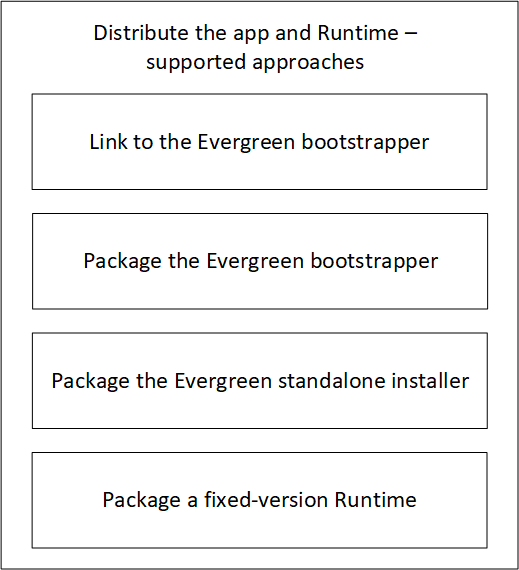
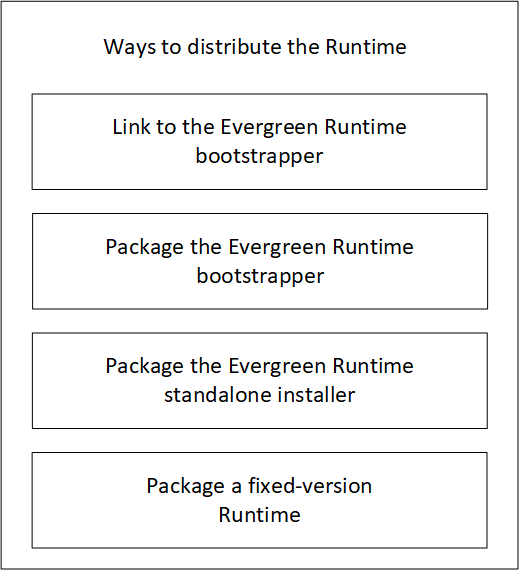
AddHostObject color

diff --git a/microsoft-edge/webview2/index.md b/microsoft-edge/webview2/index.md
@@ -105,7 +105,7 @@ The WebView2 control, WebView2 SDK, and WebView2 Runtime have the following role
 <!-- ------------------------------ -->
 #### Relationship between the WebView2 control, SDK, and Runtime
 
-![Diagram: Relationship between the WebView2 control, SDK, and Runtime](./index-images/wv2-control-sdk-runtime.png)
+![Diagram: Relationship between the WebView2 control, SDK, and Runtime](./index-images/control-sdk-runtime.png)
 
 Control:
 *  WebView2 control - in the app layout; hosts the Runtime.
@@ -162,7 +162,7 @@ The SDK includes the JavaScript API?  The JavaScript API is the [WebView2Script 
 * Native-side code calls platform APIs and WebView2 APIs
 * Web-side JavaScript code calls WebView2Script APIs & exposed native-side APIs
 
-![Design architecture of a WebView2 app](./index-images/wv2-app-design.png)
+![Design architecture of a WebView2 app](./index-images/app-design.png)
 
 
 <!-- ====================================================================== -->
@@ -233,9 +233,9 @@ There are several ways to distribute the WebView2 Runtime with your app:
 
 | Name of distribution approach | Description | Notes |
 |---|---|---|
-| Link to the Evergreen bootstrapper | In your app's installer, link to the Evergreen Runtime bootstrapper.  Have your app's installer use this link to programmatically download and install the Evergreen bootstrapper onto the user's machine.  Then invoke the bootstrapper to install the appropriate Runtime for the user's device. | For users who have an online connection.  The Evergreen bootstrapper is a tiny installer that installs the correct Runtime for the user's CPU, using an internet connection. |
-| Package the Evergreen bootstrapper | Download the Evergreen bootstrapper to your Dev machine.  Package and distribute the Evergreen bootstrapper with your app installer.  Then your app installer invokes the bootstrapper to install the Runtime on the user's machine. | For users who don't have a reliable connection to the bootstrapper CDN site. |
-| Package the Evergreen standalone installer | Download the Evergreen standalone installer to your Dev machine, and package it with your app.  Package the Evergreen standalone installer with your app's installer.  Your app's installer then invokes the Evergreen standalone installer to install the Runtime on the user's device. | For offline users.  A large, standalone Evergreen Runtime installer for offline users, that includes the Evergreen Runtime. |
+| Link to the Evergreen Runtime bootstrapper | In your app's installer, link to the Evergreen Runtime bootstrapper.  Have your app's installer use this link to programmatically download and install the Evergreen bootstrapper onto the user's machine.  Then invoke the bootstrapper to install the appropriate Runtime for the user's device. | For users who have an online connection.  The Evergreen bootstrapper is a tiny installer that installs the correct Runtime for the user's CPU, using an internet connection. |
+| Package the Evergreen Runtime bootstrapper | Download the Evergreen bootstrapper to your Dev machine.  Package and distribute the Evergreen bootstrapper with your app installer.  Then your app installer invokes the bootstrapper to install the Runtime on the user's machine. | For users who don't have a reliable connection to the bootstrapper CDN site. |
+| Package the Evergreen Runtime standalone installer | Download the Evergreen standalone installer to your Dev machine, and package it with your app.  Package the Evergreen standalone installer with your app's installer.  Your app's installer then invokes the Evergreen standalone installer to install the Runtime on the user's device. | For offline users.  A large, standalone Evergreen Runtime installer for offline users, that includes the Evergreen Runtime. |
 | Package a fixed-version Runtime | Download a version-specific, CPU-specific Runtime to your Dev machine.  Package and distribute the fixed-version Runtime with your app's installer.  Your app's installer installs the specific fixed-version Runtime on the user's machine. | Specialty case, for when you need specific version of the APIs; avoids testing whether latest APIs are available. |
 
 The above approaches are listed in the same sequence as in the [Download the WebView2 Runtime](https://developer.microsoft.com/microsoft-edge/webview2#download-section) section of the **Microsoft Edge WebView2** page, from lightweight to heavyweight approaches.  Favor the lightweight approaches; use a heavyweight approach if required by a specialized scenario.
